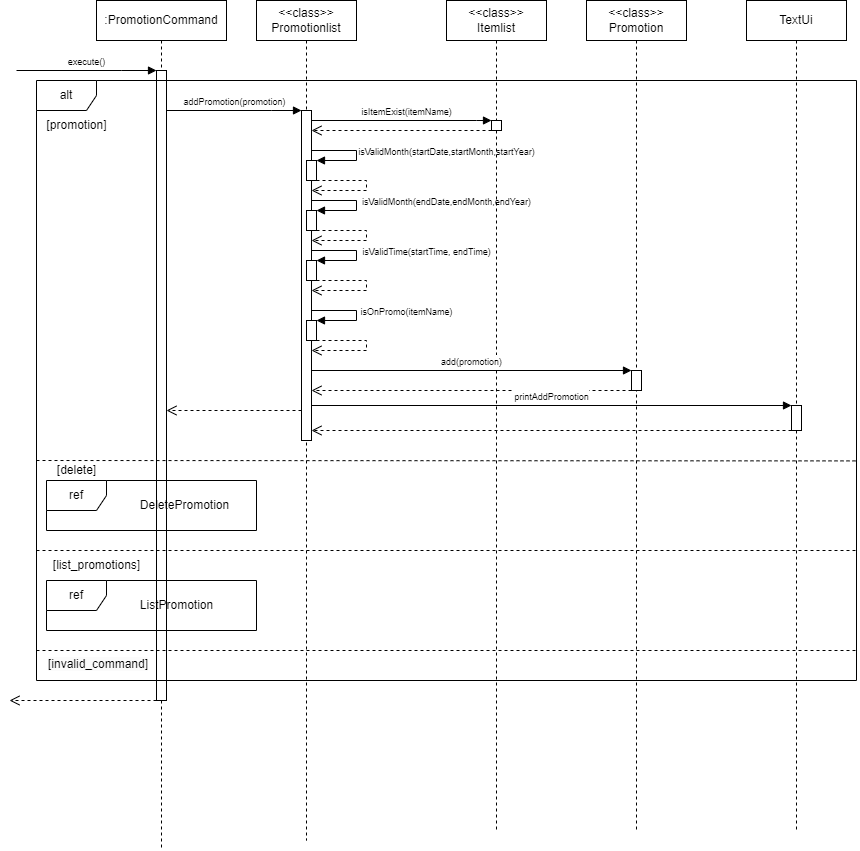
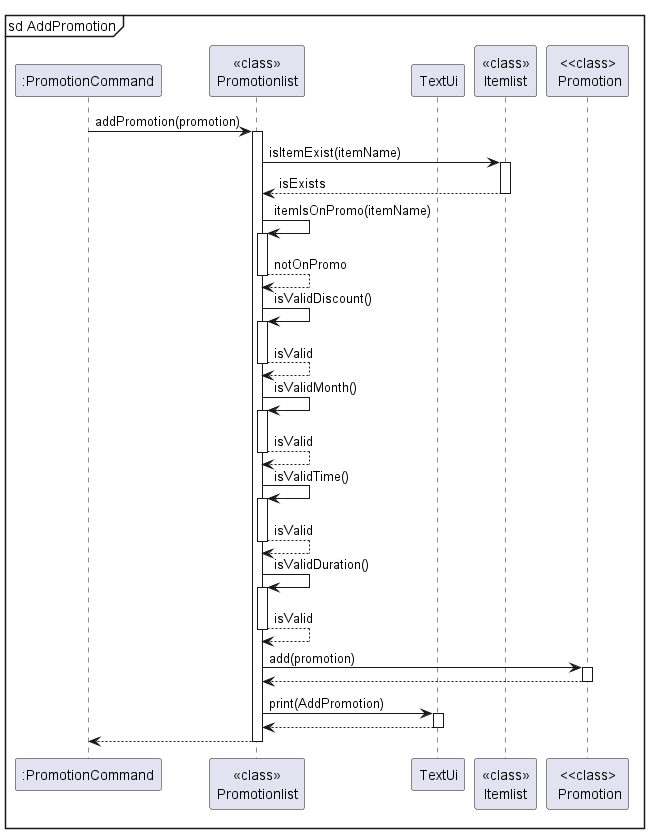
Update DG

diff --git a/src/main/java/promotion/Promotionlist.java b/src/main/java/promotion/Promotionlist.java
@@ -18,6 +18,7 @@ public class Promotionlist {
     public static int getIndex(Promotion promotion) {
         return promotions.indexOf(promotion);
     }
+
     public static void deletePromotion(int index) {
         promotions.remove(index);
     }
@@ -29,10 +30,6 @@ public class Promotionlist {
             }
         }
         return false;
-    }
-
-    public static boolean isOnPromo(String itemName) {
-        return Promotionlist.itemIsOnPromo(itemName);
     }
 
     public static boolean isLeapYear(int year) {
@@ -54,7 +51,7 @@ public class Promotionlist {
         if (!Itemlist.itemIsExist(itemName)) {
             throw new CommandFormatException("ITEM_NOT_FOUND");
         }
-        if (Promotionlist.isOnPromo(itemName)) {
+        if (Promotionlist.itemIsOnPromo(itemName)) {
             throw new InvalidDateException("ITEM_IS_PROMO");
         }
         if (!isValidDiscount(discount)) {
@@ -76,25 +73,31 @@ public class Promotionlist {
     public static boolean isValidDiscount (float discount) {
         return !(discount < 0) && !(discount > 1);
     }
-    
-    public static boolean isPromoExist(Promotion promotion) {
-        LocalDateTime currentTime = LocalDateTime.now();
-        DateTimeFormatter yearFormatter = DateTimeFormatter.ofPattern("yyyy");
-        DateTimeFormatter monthFormatter = DateTimeFormatter.ofPattern("M");
-        DateTimeFormatter dateFormatter = DateTimeFormatter.ofPattern("dd");
-        String formattedYear= currentTime.format(yearFormatter);
-        String formattedMonth = currentTime.format(monthFormatter);
-        String formattedDate = currentTime.format(dateFormatter);
-        int year = Integer.parseInt(formattedYear);
-        int month = Integer.parseInt(formattedMonth);
-        int date = Integer.parseInt(formattedDate);
+
+    public static boolean isPromoExistNow(String itemName) {
+        if (!itemIsOnPromo(itemName)) {
+            return false;
+        }
+        Promotion promotion = getPromotion(itemName);
+        LocalDateTime currentDateTime = LocalDateTime.now();
+
+        int year = currentDateTime.getYear();
+        int month = currentDateTime.getMonthValue();
+        int day = currentDateTime.getDayOfMonth();
+        int hour = currentDateTime.getHour();
+        int minute = currentDateTime.getMinute();
+        String formattedTime = String.valueOf(hour) + String.valueOf(minute);
+        int time = Integer.parseInt(formattedTime);
         if (year < promotion.getStartYear() || year > promotion.getEndYear()) {
             return false;
         }
         if (month < promotion.getStartMonth().getValue() || month > promotion.getEndMonth().getValue()) {
             return false;
         }
-        if (date < promotion.getStartDate() || date > promotion.getEndDate()) {
+        if (day < promotion.getStartDate() || day > promotion.getEndDate()) {
+            return false;
+        }
+        if (time < promotion.getStartTime() || time > promotion.getEndTime()) {
             return false;
         }
         return true;

diff --git a/src/main/java/parser/Parser.java b/src/main/java/parser/Parser.java
@@ -255,7 +255,7 @@ public class Parser {
             throw new CommandFormatException("QTY_TOO_LARGE");
         }
 
-        if (Promotionlist.isOnPromo(matcher.group("itemName"))) {
+        if (Promotionlist.isPromoExistNow(matcher.group("itemName"))) {
             float getDiscount = (Promotionlist.getPromotion(matcher.group("itemName"))).getDiscount();
             return new SellCommand(
                     matcher.group("itemName"),

diff --git a/src/main/java/promotion/Promotion.java b/src/main/java/promotion/Promotion.java
@@ -22,8 +22,6 @@ public class Promotion {
 
     protected int endYear;
 
-    protected DayOfWeek weekly;
-
     protected int startTime;
 
     protected int endTime;

diff --git a/docs/DeveloperGuide.md b/docs/DeveloperGuide.md
@@ -57,41 +57,90 @@ own business given a certain period and time. Additionally, it implements the fo
 * `list_promotions`
 
 
+Given below is the overall sequence diagram for the `PromotionCommand`.
+
+![PromotionSequenceDiagram](./Diagrams/Promotion_SequenceDigram.png)
+
+
 The PromotionCommand will execute the appropriate command and prints messages to the user through the `TextUi`.
 
-**Add new promotion:**
+#### Add new promotion:
 
-<img src="./Diagrams/AddPromotion.png" alt="Alt Text" width="250" height="250">
+The add promotion command has 5 compulsory arguments `ITEM_NAME`, `discount/`, `period /from`, `/to`, `time /from` and `to`
 
 Example: 
 
 ```
 promotion apple discount/50 period /from 1 Jan 2024 /to 31 Dec 2024 time from/ 0000 /to 2359
 ```
+#### Add Promotion Class Diagram
+
+Given below is the class diagram showing the class structure of the add promotion mechanism:
+
+![AddPromotion Class Diagram](./Diagrams/AddPromotion_ClassDiagram.png)
+
+#### Add Promotion Sequence Diagram
+
+Given below is the sequence diagram showing the add promotion mechanism:
+
+![AddPromotion Sequence Diagram](./Diagrams/AddPromotion.png)
+
 This command will add a new promotion by calling `addPromotion(promotion)` method in `Promotionlist.java`. The 
 `addPromotion(promotion)` then calls `isItemExist(apple)` in `Itemlist.java` to check if the item exists in the inventory. 
 
-Next, it subsequently calls multiple of its own methods, `isValidMonth(1, Jan, 2024)` and `isValidMonth(31, Dec, 2024)` 
-to check if the date is valid. `isValidTime(0000, 2359)` is called to check if the time is valid 
 
-Lastly `isOnPromo(apple)` is called to check if there is already an existing promotion on `apple`. If there is an existing
-promotion, the user will be unable to create another promotion for `apple`.
+Next, it subsequently calls multiple of its own methods. 
+1. `ItemIsOnPromo()` checks if there is already an existing `promotion` for the item. If there is an existing promotion
+the user will be unable to create another promotion for the same item.
+2. `isValidDiscount()` checks if the `discount` inputed lies between the range of 0 to 100.
+3. `isValidMonth()` checks if the `date` entered is valid. E.g. `30 FEB 2024` does not exists.
+4. `isValidTime()` checks if the time is a valid range.
+5. `isValidDuration()` checks if the duration of the promotion is valid. E.g. A promotion that starts on `1 FEB 2024` and
+ends on `1 JAN 2024` is not valid.
+
+Then, `add(promotion)` method is called in `Promotion.java` to create the promotion. 
+
+A response will then be printed to the `TextUi` to inform the user on the successful creation of the promotion.
 
 **Delete promotion:**
 
-<img src="./Diagrams/DeletePromo.png" alt="Alt Text" width="300" height="200">
+This command has one compulsory argument `ITEM_NAME`.
 
-The promotion will be deleted by calling `deletePromotion(index)` method in `Promotionlist.java`. 
+Example: 
+```
+del_promo apple
+```
 
-Example: `del_promo apple`
+#### Delete Promotion Sequence Diagram
+
+Given below is the sequence diagram showing the delete promotion mechanism:
+
+![DeletePromotion](./Diagrams/DeletePromotion.png)
+
+This command will initially check if there is such an item in `Promotionlist`. If it does not exists, it will print an
+error message. Otherwise, it will execute the deletion of the `promotion`.
+
+To execute the deletion, `getPromotion()` and `getIndex()` methods are called to obtain the index of the item in the
+`Promotionlist`. 
+
+The promotion will be deleted by calling `deletePromotion(index)` method in `Promotionlist.java` and will inform the
+user on the successful deletion of the promotion via the `TextUi`.
 
 **List promotion:**
 
-<img src="./Diagrams/ListPromotion.png" alt="Alt Text" width="300" height="150">
+This command lists all the `promotion` in `Promotionlist`.
+
+Example:
+```
+list_promotions
+```
+
+#### List Promotion Sequence Diagram
+
+![ListPromotion](./Diagrams/Promotion_SequenceDigram.png)
 
 All of the `Promotions` will be shown to the user through the `TextUi`. 
 
-Example: `list_promotions`
 
 
 ## Product scope
